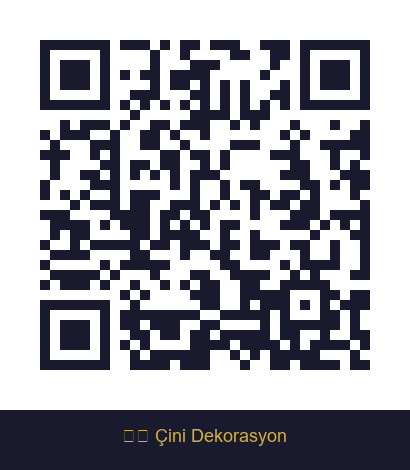
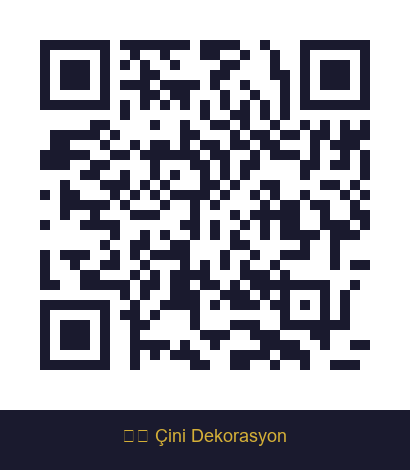
fix(qr): generate QR codes using dynamic local IP instead of localhost

Changed region(s): [[0.0878, 0.0596, 0.9073, 0.8043]]

diff --git a/qr_generator.py b/qr_generator.py
@@ -5,12 +5,28 @@ Her müze eseri için QR kod oluşturma scripti
 """
 
 import os
+import sys
+import socket
+
+# Windows konsolunda UTF-8 zorla
+if sys.stdout.encoding != 'utf-8':
+    sys.stdout.reconfigure(encoding='utf-8', errors='replace')
 import qrcode
 from qrcode.image.styledpil import StyledPilImage
 from PIL import Image, ImageDraw, ImageFont
 
+def get_local_ip():
+    try:
+        s = socket.socket(socket.AF_INET, socket.SOCK_DGRAM)
+        s.connect(("8.8.8.8", 80))
+        ip = s.getsockname()[0]
+        s.close()
+        return ip
+    except Exception:
+        return "192.168.1.17"  # Fallback IP (senin bilgisayarının loglardaki IP'si)
+
 # Yapılandırma
-BASE_URL = "http://localhost:5000"
+BASE_URL = f"http://{get_local_ip()}:5000"
 OUTPUT_DIR = "qr_codes"
 DATA_DIR = "data"
 
